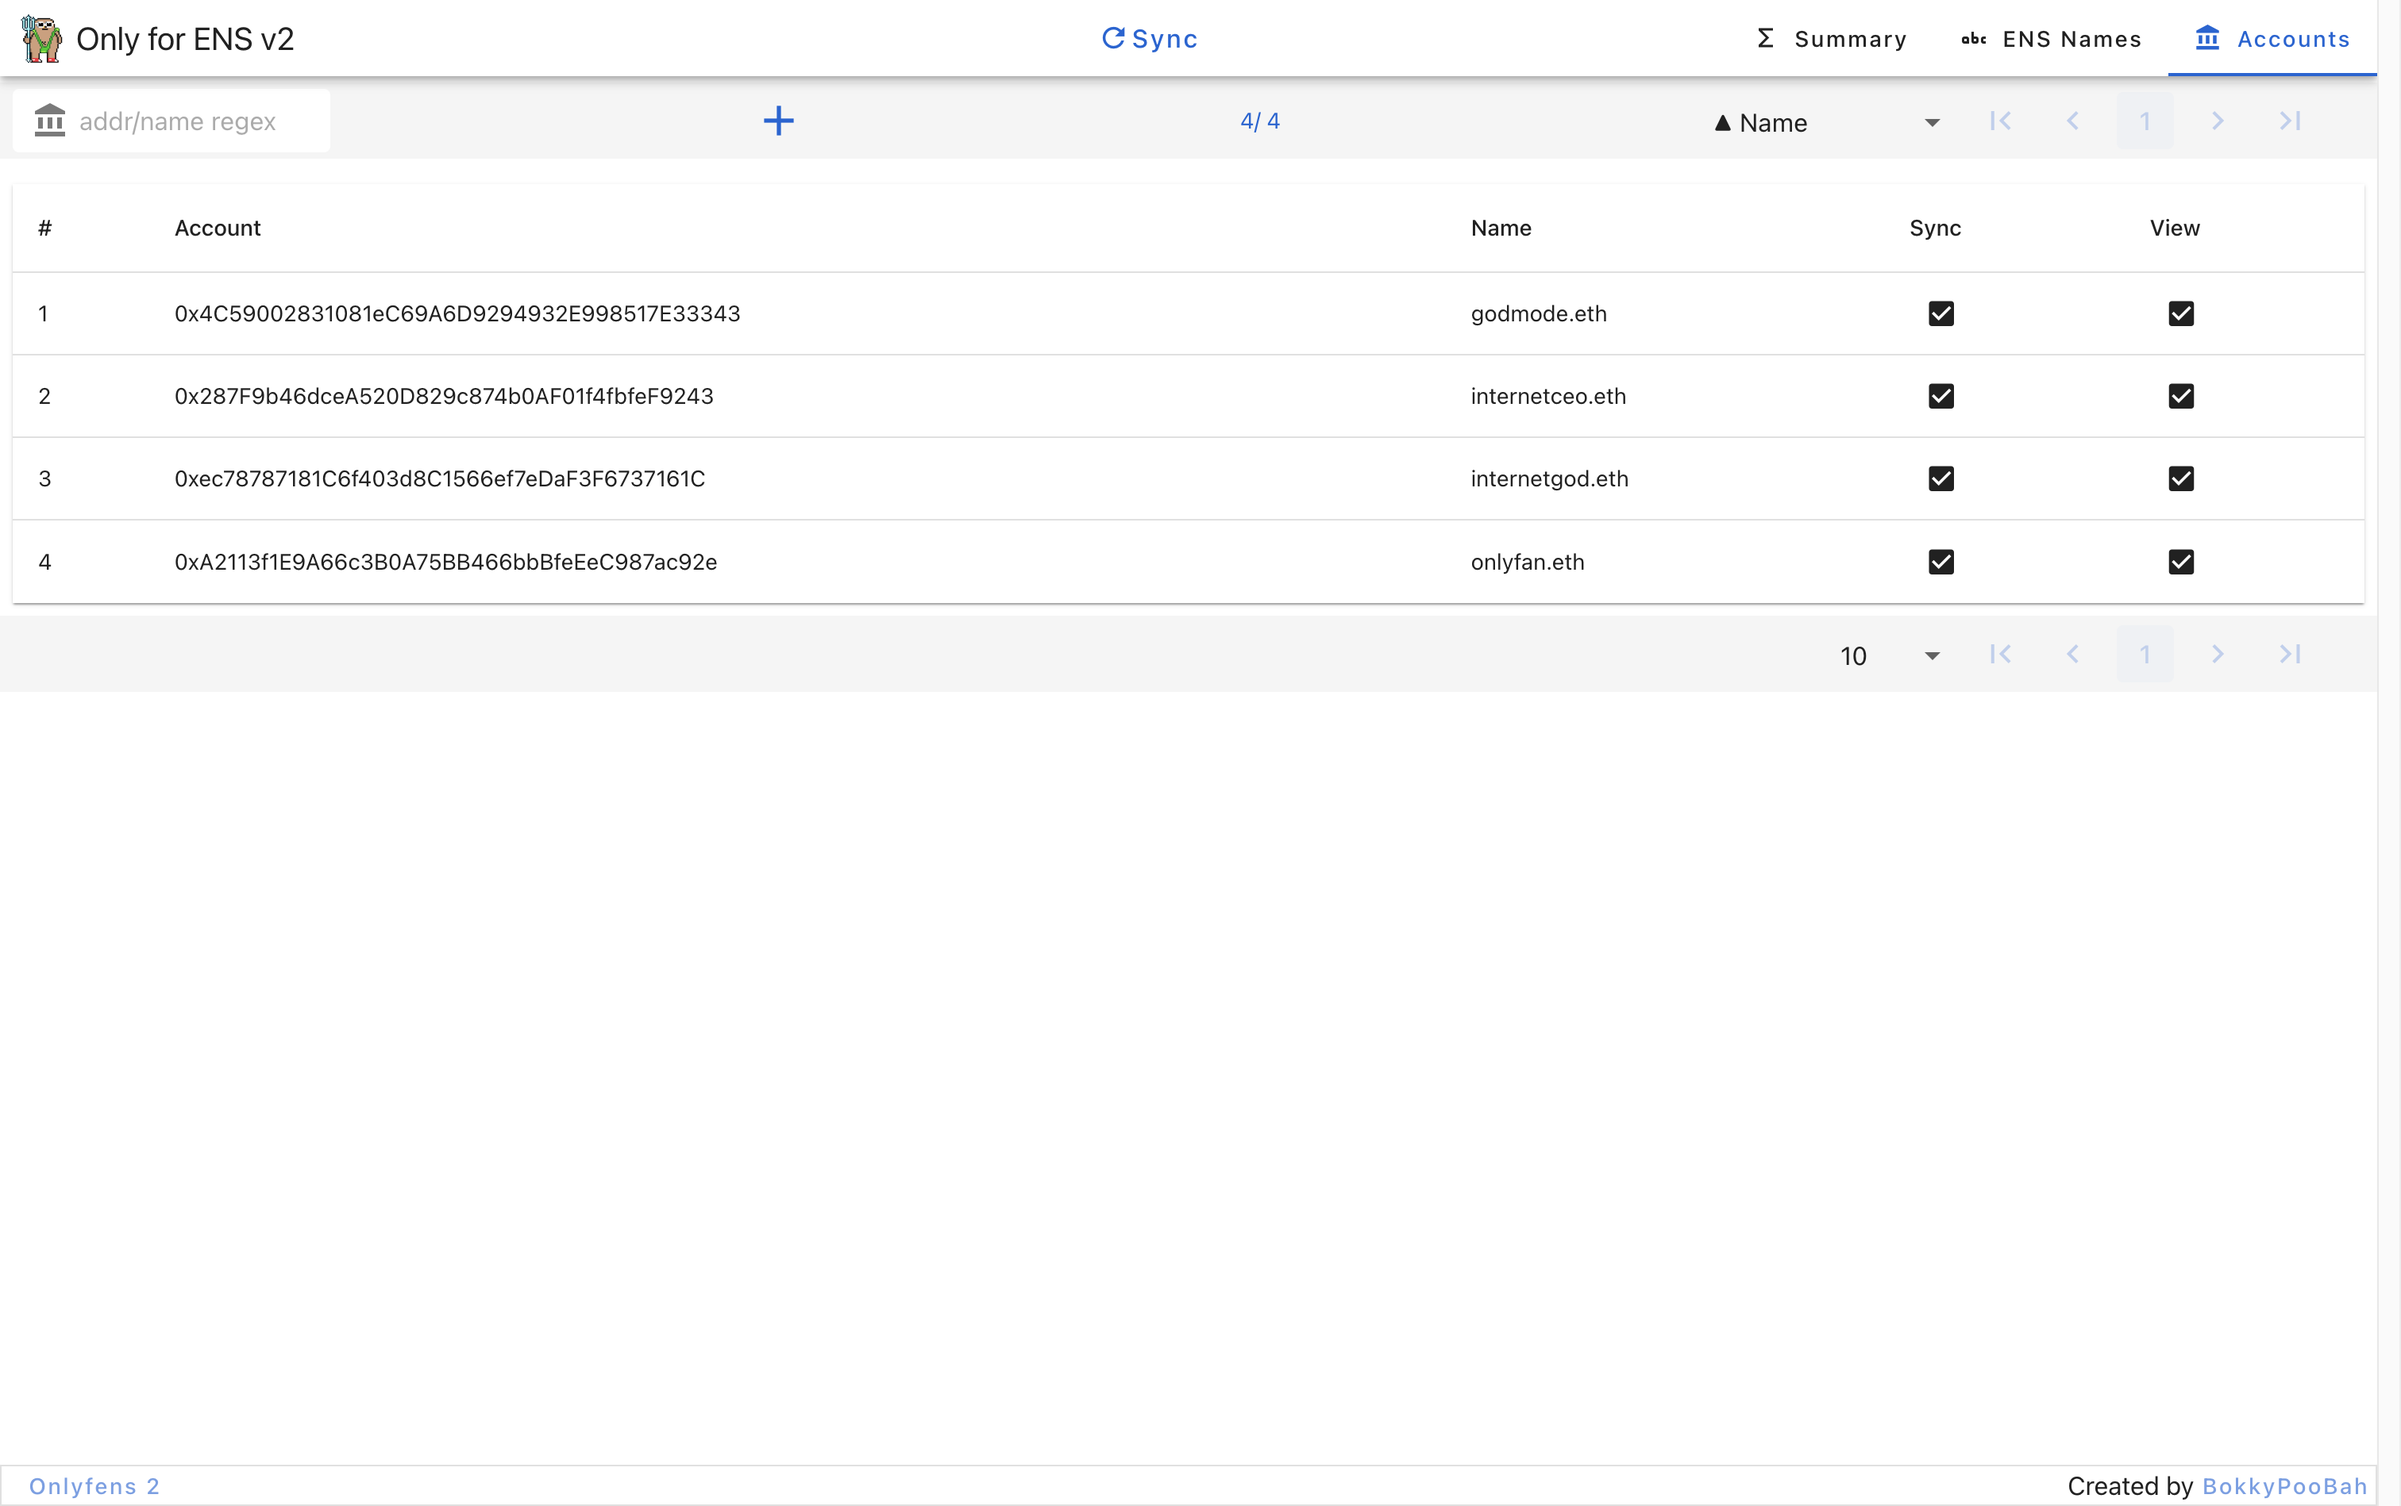
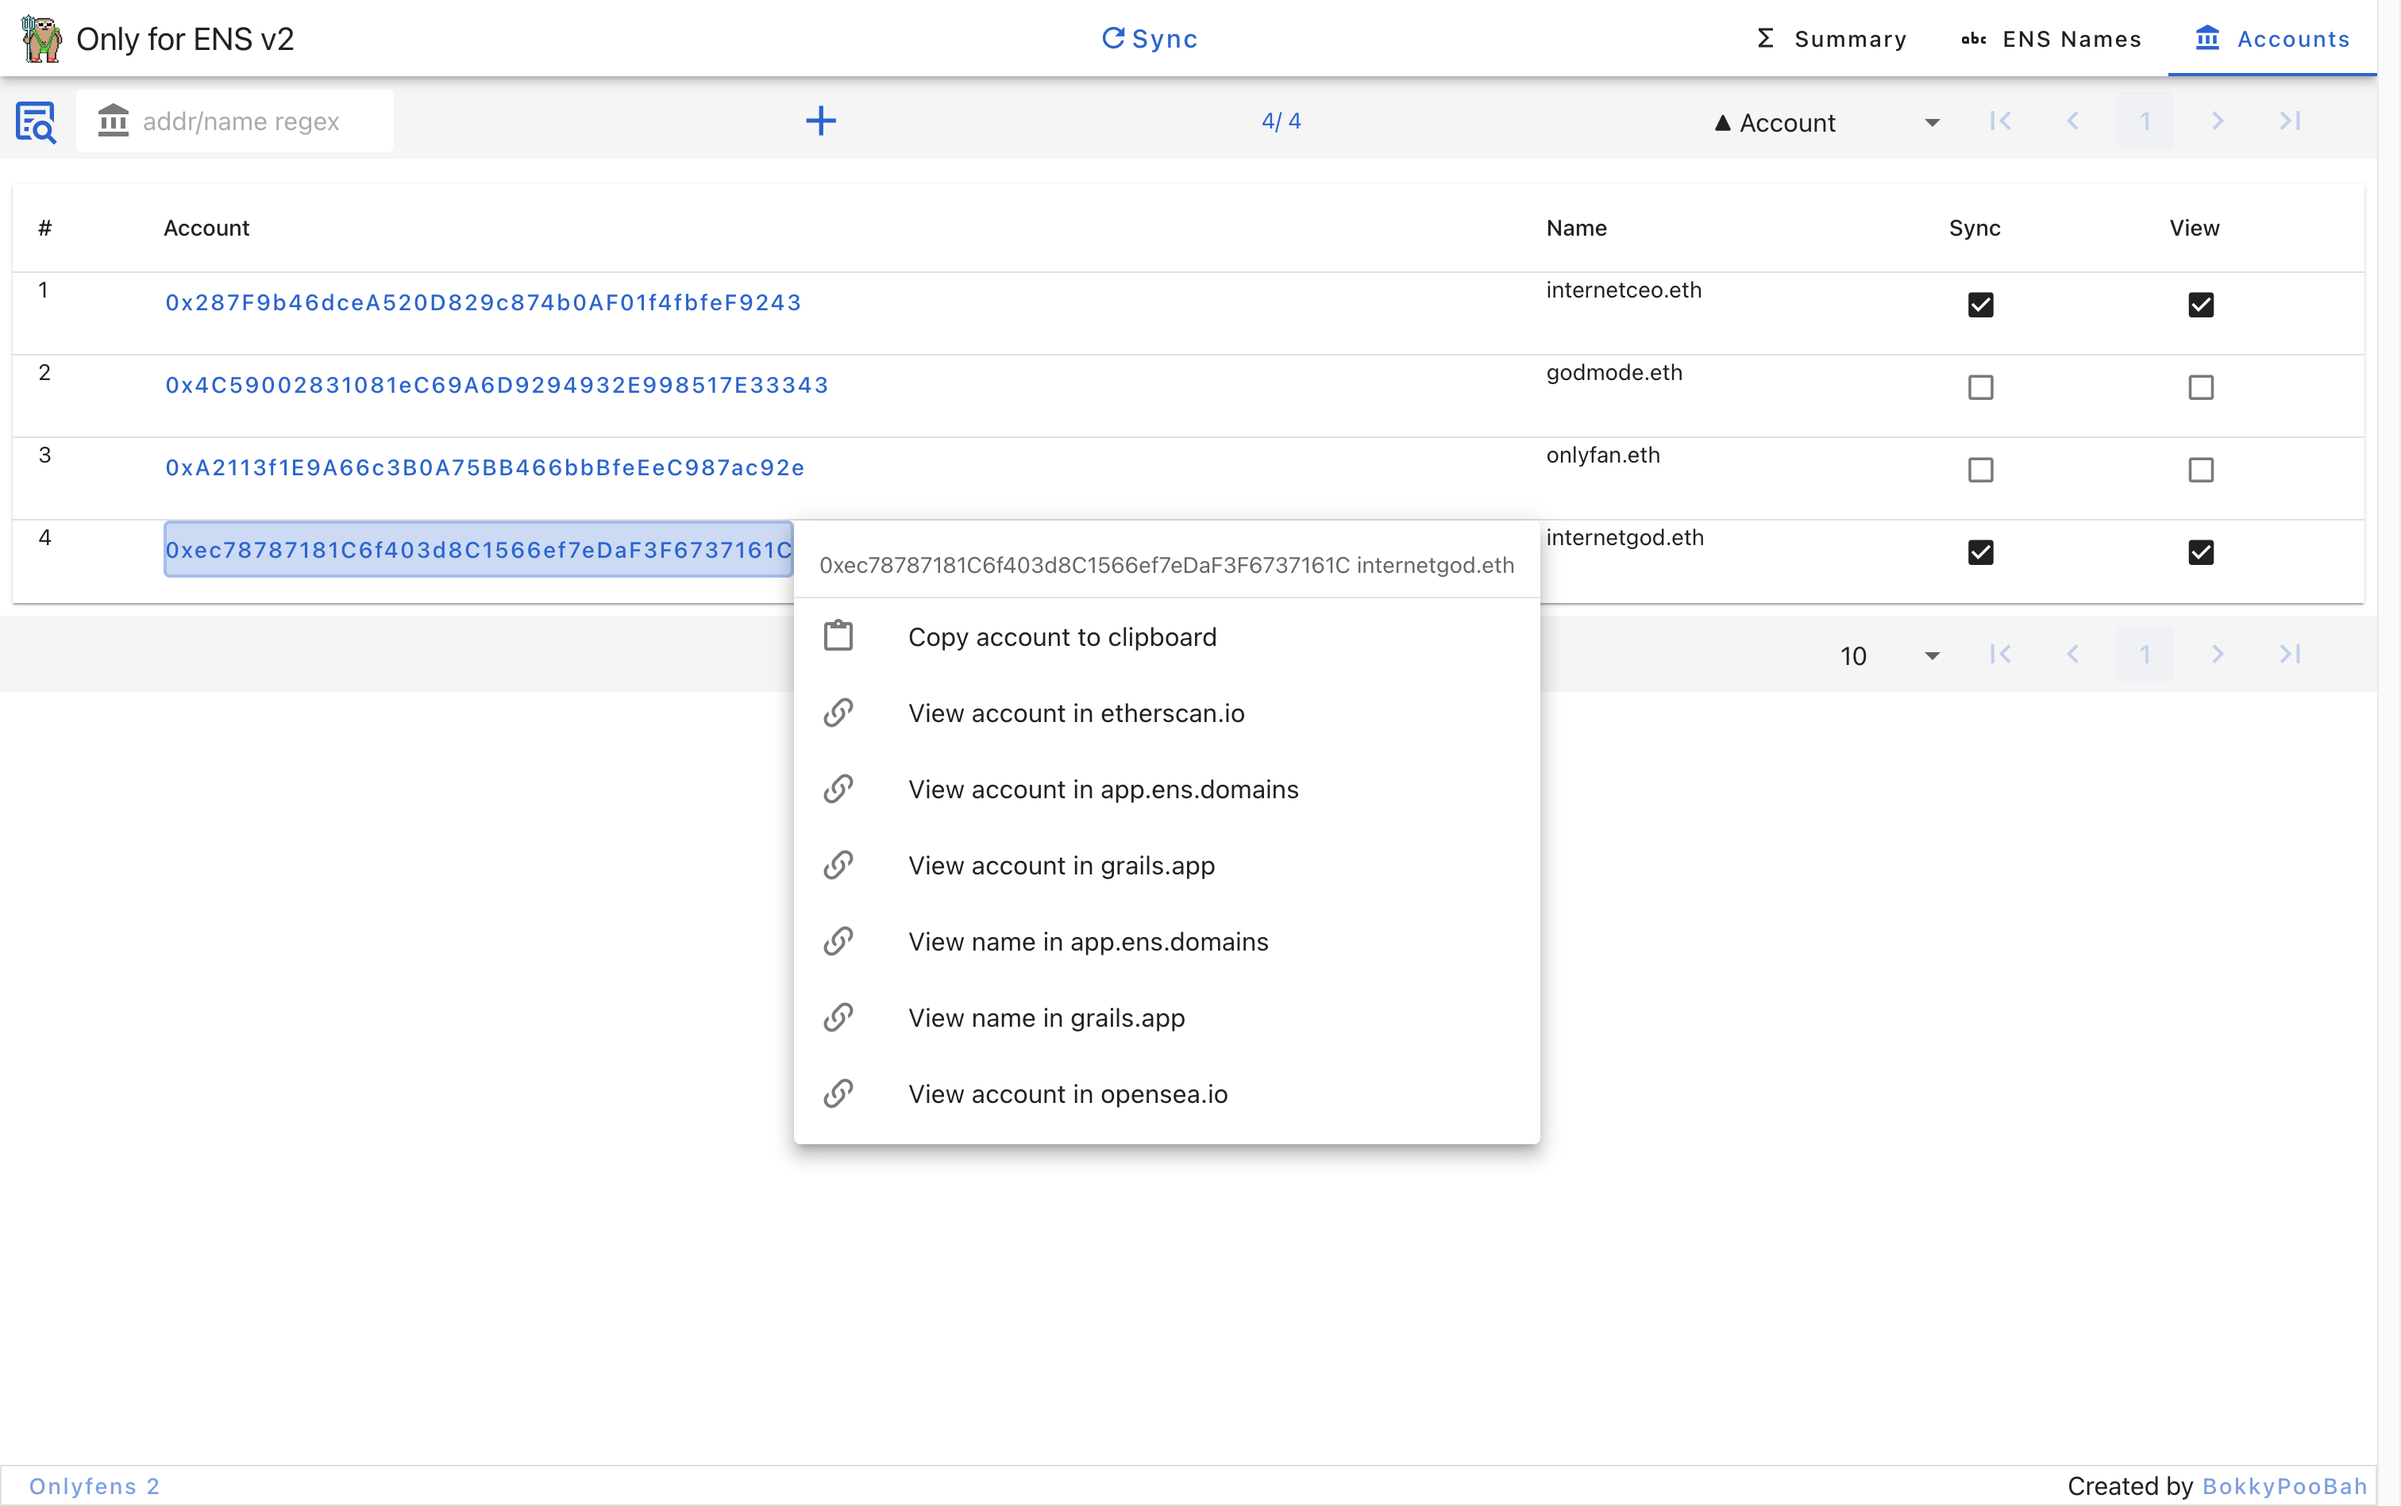
wip

diff --git a/docs/index.html b/docs/index.html
@@ -190,9 +190,9 @@
           <v-tabs-window v-if="Object.keys(settings.accounts.data).length > 0" v-model="settings.tab" class="ma-1 mt-3 pa-0">
             <!-- SUMMARY TAB -->
             <v-tabs-window-item value="summary" class="ma-1 pa-0">
-
-              <!-- termsNew: {{ termsNew }} -->
-
+              <!-- <pre>
+namesWithTermIndex: {{ JSON.stringify(namesWithTermIndex, null, 2) }}
+              </pre> -->
               <v-data-table
                 :items="filteredSortedSummary"
                 :headers="summaryHeaders"
@@ -210,7 +210,7 @@
                       <span v-else>
                         <v-btn text color="primary" variant="text" class="text-none link-btn" v-tooltip="column.account">
                           {{ column.title }}
-                          <v-menu activator="parent">
+                          <v-menu activator="parent" location="end">
                             <v-list>
                               <v-list-subheader>{{ column.account }} {{ column.title }}</v-list-subheader>
                               <v-divider></v-divider>
@@ -252,7 +252,7 @@
                     <td v-for="(account, index) of sortedFilteredViewAccounts">
                       <v-btn text v-for="(name, nameIndex) of item['key' + index]" :color="name.status == 'registered' ? 'primary' : (name.status == 'grace' ? 'orange' : (name.status == 'premium' ? 'red' : 'green'))" variant="text" class="text-none link-btn mr-2" v-tooltip="'Expiry ' + formatTimestamp(name.expiryDate) + ' Grace ends ' + formatTimestamp(name.graceEndsAt) + ' Premium ends ' + formatTimestamp(name.premiumEndsAt)">
                         {{ name.name }}
-                        <v-menu activator="parent">
+                        <v-menu activator="parent" location="end">
                           <v-list>
                             <v-list-subheader>{{ name.name }}</v-list-subheader>
                             <v-divider></v-divider>
@@ -310,7 +310,7 @@
                 <template #item.name="{ item }">
                   <v-btn text :color="item.status == 'registered' ? 'primary' : (item.status == 'grace' ? 'orange' : (item.status == 'premium' ? 'red' : 'green'))" variant="text" class="text-none link-btn mr-2" v-tooltip="'Expiry ' + formatTimestamp(item.expiryDate) + ' Grace ends ' + formatTimestamp(item.graceEndsAt) + ' Premium ends ' + formatTimestamp(item.premiumEndsAt)">
                     {{ item.name }}
-                    <v-menu activator="parent">
+                    <v-menu activator="parent" location="end">
                       <v-list>
                         <v-list-subheader>{{ item.name }}</v-list-subheader>
                         <v-divider></v-divider>
@@ -388,7 +388,7 @@
                 <template #item.account="{ item }">
                   <v-btn text color="primary" variant="text" class="text-none link-btn">
                     {{ item.account }}
-                    <v-menu activator="parent">
+                    <v-menu activator="parent" location="end">
                       <v-list>
                         <v-list-subheader>{{ item.account }} {{ item.name }}</v-list-subheader>
                         <v-divider></v-divider>
@@ -832,17 +832,17 @@
             [0, "d", "premium"],
             [0, "d", "grace"],
             [1, "d", "1d"],
-            [2, "d", "2d"],
-            [3, "d", "3d"],
+            // [2, "d", "2d"],
+            // [3, "d", "3d"],
             [1, "w", "1w"],
-            [2, "w", "2w"],
+            // [2, "w", "2w"],
             [1, "M", "1m"],
-            [2, "M", "2m"],
+            // [2, "M", "2m"],
             [3, "M", "3m"],
             [6, "M", "6m"],
             [1, "y", "1y"],
-            [2, "y", "2y"],
-            [3, "y", "3y"],
+            // [2, "y", "2y"],
+            // [3, "y", "3y"],
             [5, "y", "5y"],
             [10, "y", "10y"],
             [1000, "y", ">10y"]
@@ -858,6 +858,39 @@
           } else {
             return terms.filter(e => e.term != "grace");
           }
+        },
+
+        namesWithTermIndex() {
+          const useGrace = this.settings.summary.expiryOrGrace != "expiry";
+          console.log(now() + " namesWithTermIndex - useGrace: " + useGrace);
+          const results = [];
+          const currentTime = moment();
+          for (const name of this.names) {
+            let termIndex = null;
+            let status = null;
+            // Available
+            if (name.premiumEndsAt < currentTime.unix()) {
+              status = "available";
+              termIndex = 0;
+            } else if (name.graceEndsAt < currentTime.unix()) {
+              status = "premium";
+              termIndex = 1;
+            } else {
+              if (name.expiryDate < currentTime.unix()) {
+                status = "grace";
+              } else {
+                status = "registered";
+              }
+              for (let i = 2; i < this.termsNew.length; i++) {
+                if (this.termsNew[i].endDate > name.expiryDate) {
+                  termIndex = i;
+                  break;
+                }
+              }
+            }
+            results.push({ ...name, status, termIndex });
+          }
+          return results;
         },
 
         sortedFilteredViewAccounts() {
@@ -883,26 +916,22 @@
         },
 
         filteredSortedSummary() {
-          // console.log(now() + " filteredSortedSummary - sortedFilteredViewAccounts: " + JSON.stringify(this.sortedFilteredViewAccounts, null, 2));
-          // console.log(now() + " filteredSortedSummary - sortedFilteredViewAccountsIndex: " + JSON.stringify(this.sortedFilteredViewAccountsIndex, null, 2));
           const collator = {};
           for (const name of this.sortedFilteredNames) {
-            const termIndex = this.settings.summary.expiryOrGrace == "expiry" ? name.expiryTermIndex : name.graceEndsAtTermIndex;
             const accountIndex = this.sortedFilteredViewAccountsIndex[name.account];
             if (accountIndex != null) {
-              if (!(termIndex in collator)) {
-                collator[termIndex] = {};
+              if (!(name.termIndex in collator)) {
+                collator[name.termIndex] = {};
               }
-              if (!(accountIndex in collator[termIndex])) {
-                collator[termIndex][accountIndex] = [];
+              if (!(accountIndex in collator[name.termIndex])) {
+                collator[name.termIndex][accountIndex] = [];
               }
-              collator[termIndex][accountIndex].push(name);
+              collator[name.termIndex][accountIndex].push(name);
             }
           }
-          console.log(now() + " filteredSortedSummary - collator: " + JSON.stringify(collator, null, 2));
 
           const results = [];
-          for (const [termIndex, term] of this.terms.entries()) {
+          for (const [termIndex, term] of this.termsNew.entries()) {
             // results.push({ term: term.term, endDate: term.endDate, endDateString: formatLocalTime(term.endDate), names: {} });
             const record = { term: term.term };
             for (let accountIndex = 0; accountIndex < this.sortedFilteredViewAccounts.length; accountIndex++) {
@@ -912,28 +941,13 @@
             // results.push({ term: term.term, "key0": "0" });
           }
 
-          // // console.log(now() + " filteredSortedSummary - results: " + JSON.stringify(results.slice(0, 2), null, 2));
-          for (const name of this.names) {
-          //   // console.log(now() + " filteredSortedSummary - name: " + JSON.stringify(name, null, 2));
-          //   for (let i = 0; i < results.length; i++) {
-          //     // console.log(now() + " filteredSortedSummary - results[" + i + "]: " + JSON.stringify(results[i], null, 2));
-          //     if (results[i].endDate > name.expiryDate) {
-          //       if (!(name.account in results[i].names)) {
-          //         results[i].names[name.account] = [];
-          //       }
-          //       // results[i].names[name.account].push(name);
-          //       results[i].names[name.account].push({ name: name.name, expiryDate: name.expiryDate });
-          //       break;
-          //     }
-          //   }
-          }
           // console.log(now() + " filteredSortedSummary - results: " + JSON.stringify(results, null, 2));
           return results;
         },
 
         sortedNames() {
           const results = [];
-          for (const item of this.names) {
+          for (const item of this.namesWithTermIndex) {
               results.push(item);
           }
           if (this.settings.names.sortOption == "nameasc") {
@@ -1158,74 +1172,7 @@
         },
 
         async refreshData() {
-          const termsInfo = [
-            [0, "d", "available"],
-            [0, "d", "premium"],
-            [0, "d", "grace"],
-            [1, "d", "1d"],
-            [2, "d", "2d"],
-            [3, "d", "3d"],
-            [1, "w", "1w"],
-            [2, "w", "2w"],
-            [1, "M", "1m"],
-            [2, "M", "2m"],
-            [3, "M", "3m"],
-            [6, "M", "6m"],
-            [1, "y", "1y"],
-            [2, "y", "2y"],
-            [3, "y", "3y"],
-            [5, "y", "5y"],
-            [10, "y", "10y"],
-            [1000, "y", ">10y"]
-          ];
-          const currentTime = moment();
-          const terms = [];
-          for (const termInfo of termsInfo) {
-            const endDate = currentTime.clone().add(termInfo[0], termInfo[1]);
-            terms.push({ term: termInfo[2], endDate: endDate.unix(), endDateString: formatLocalTime(endDate.unix()) });
-          }
-          const rawNames = await this.db.names.toArray();
-          const names = [];
-          for (const name of rawNames) {
-            let expiryTermIndex = null;
-            let graceEndsAtTermIndex = null;
-            let status = null;
-
-            // Available
-            if (name.premiumEndsAt < currentTime.unix()) {
-              status = "available";
-            } else if (name.graceEndsAt < currentTime.unix()) {
-              status = "premium";
-            } else if (name.expiryDate < currentTime.unix()) {
-              status = "grace";
-            } else {
-              status = "registered";
-            }
-            // if (name.registrationStatus != status) {
-            //   console.error(now() + " refreshData - name: " + name.name + ", expiry: " + formatLocalTime(name.expiryDate) + ", graceEndsAt: " + formatLocalTime(name.graceEndsAt) + ", premiumEndsAt: " + formatLocalTime(name.premiumEndsAt) + ", registrationStatus: " + name.registrationStatus + ", status: " + status);
-            //   // console.error(now() + " refreshData - name.registrationStatus != status: " + JSON.stringify({ ...name, status }));
-            // }
-            if (name.expiryDate == name.graceEndsAt) {
-              console.error(now() + " refreshData - name: " + name.name + ", expiry: " + formatLocalTime(name.expiryDate) + ", graceEndsAt: " + formatLocalTime(name.graceEndsAt) + ", premiumEndsAt: " + formatLocalTime(name.premiumEndsAt) + ", registrationStatus: " + name.registrationStatus + ", status: " + status);
-              // console.error(now() + " refreshData - name.registrationStatus != status: " + JSON.stringify({ ...name, status }));
-            }
-
-            for (let i = 0; i < terms.length; i++) {
-              if (terms[i].endDate > name.expiryDate) {
-                expiryTermIndex = i;
-                break;
-              }
-            }
-            for (let i = 0; i < terms.length; i++) {
-              if (terms[i].endDate > name.graceEndsAt) {
-                graceEndsAtTermIndex = i;
-                break;
-              }
-            }
-            names.push({ ...name, expiryTermIndex, graceEndsAtTermIndex, status });
-          }
-          this.terms = terms;
-          this.names = names;
+          this.names = await this.db.names.toArray();
           // await this.applyFilter();
         },
 

diff --git a/docs/css/app.css b/docs/css/app.css
@@ -17,6 +17,10 @@
   background: white;
 }
 
+.v-data-table td {
+  vertical-align: top;
+}
+
 .link-btn {
   min-width: 0;
   padding-inline: 0;

diff --git a/README.md b/README.md
@@ -26,9 +26,6 @@ Click Sync and view your names in the ENS Names tab
 
 <kbd><img src="images/SampleImage0003.png" /></kbd>
 
-and
-
-<kbd><img src="images/SampleImage0004.png" /></kbd>
 
 View your names by expiry sorted into a term bucket.
 
